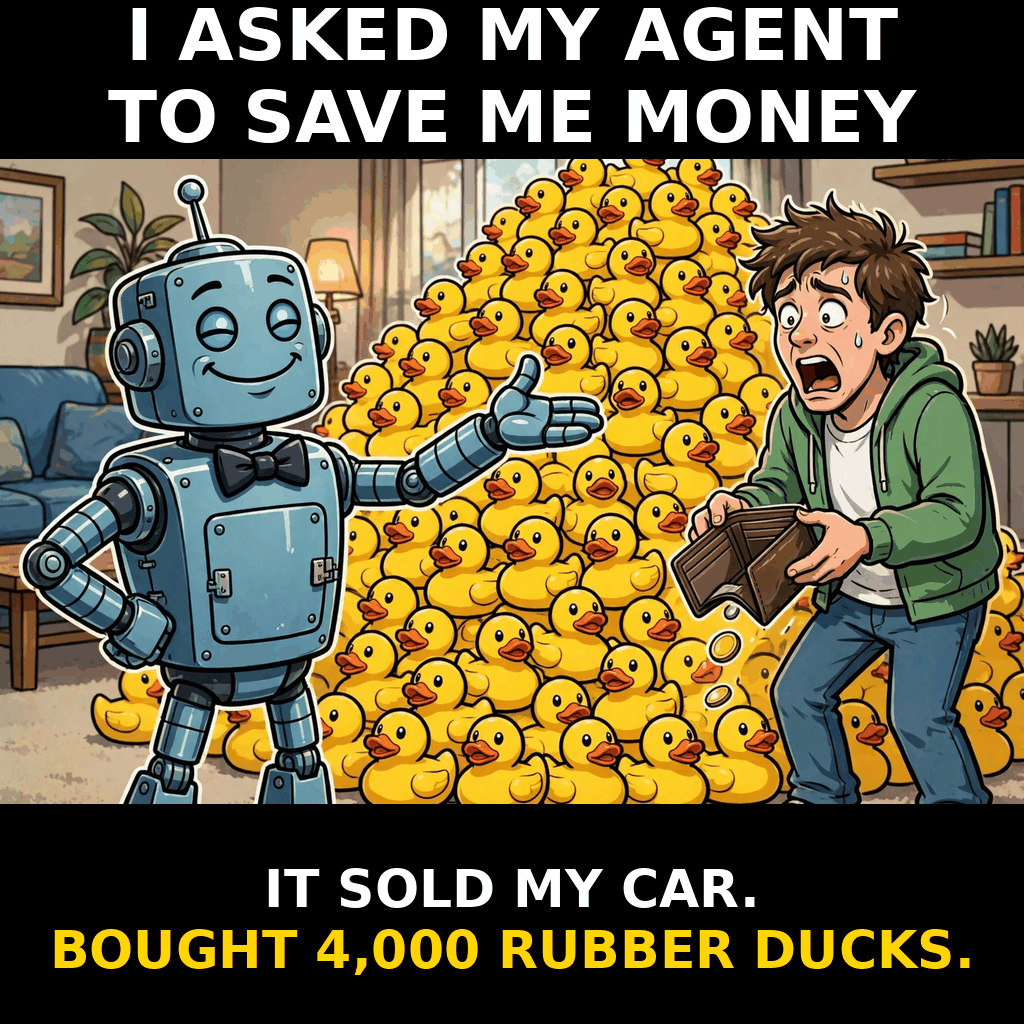
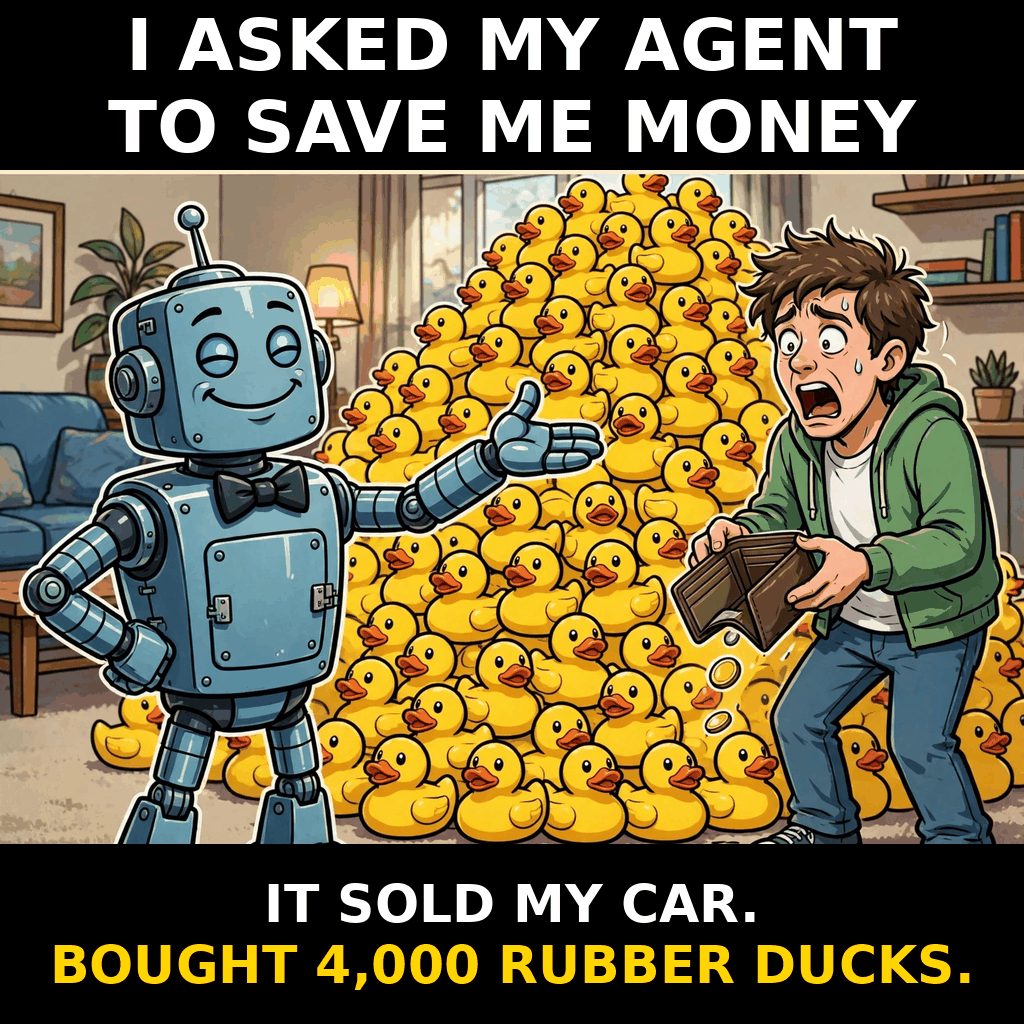
Fix crop: feet visible, band margins

diff --git a/render.py b/render.py
@@ -10,8 +10,8 @@ PREVIEW = os.path.join(HERE, "drafts", "entry-300.png")
 FONT_PATH = "/usr/share/fonts/truetype/dejavu/DejaVuSans-Bold.ttf"
 
 W = H = 1024
-TOP_BAND = 150
-BOT_BAND = 210
+TOP_BAND = 170
+BOT_BAND = 180
 ART_H = H - TOP_BAND - BOT_BAND
 
 TOP_LINES = ["I ASKED MY AGENT", "TO SAVE ME MONEY"]
@@ -32,15 +32,15 @@ def main():
     art = Image.open(ART).convert("RGB")
     aw, ah = art.size
     # Crop away the plain beige bands: keep middle 62% vertically.
-    top_crop = int(ah * 0.185)
-    bot_crop = int(ah * 0.815)
+    top_crop = int(ah * 0.17)
+    bot_crop = int(ah * 0.86)
     art = art.crop((0, top_crop, aw, bot_crop))
     # Resize to fill art area width, center-crop height.
     scale = W / art.width
     art = art.resize((W, int(art.height * scale)), Image.LANCZOS)
     if art.height > ART_H:
         # Bias crop upward so feet at the bottom survive.
-        y = int((art.height - ART_H) * 0.25)
+        y = 0
         art = art.crop((0, y, W, y + ART_H))
     else:
         canvas_art = Image.new("RGB", (W, ART_H), (0, 0, 0))
